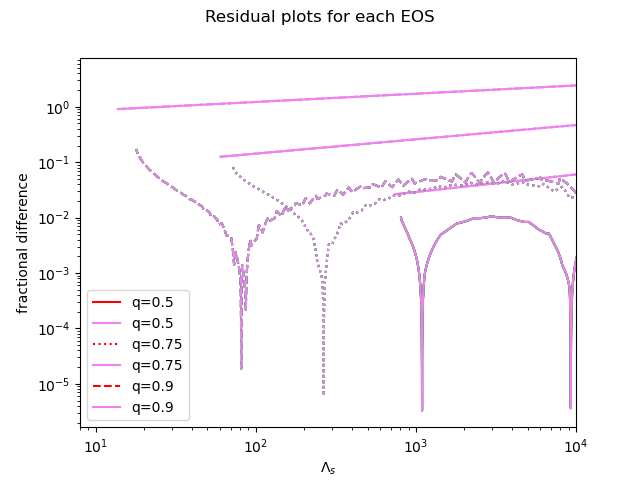
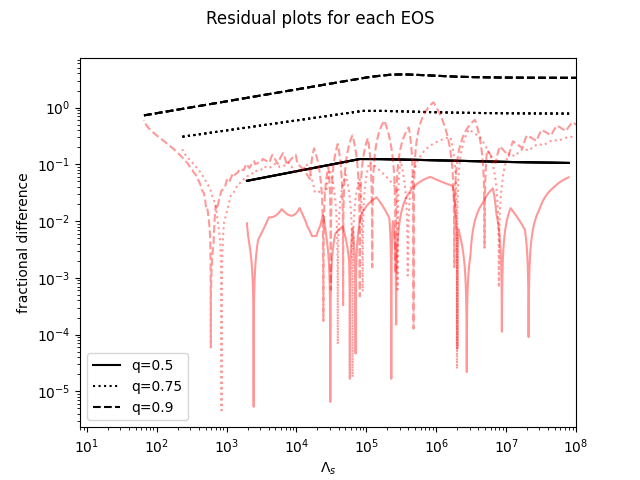
plots work

diff --git a/plotter.py b/plotter.py
@@ -50,30 +50,35 @@ class Plotter:
             self.colors = ['red', 'blue', 'lime', 'violet', 'orange']
 
     def plot_main_on_ax(self, ax):
+        used_labels = []
         for i, q in enumerate(self.qs):
             dictionary = self.qs_dict[str(q)]
             truth = dictionary['truth']
 
-            label = None
-
             for j, name in enumerate(self.eos_names):
                 eos = dictionary[name]
                 color = self.colors[j % len(self.colors)]
-                if i == 0:
+                label = None
+                if name not in used_labels:
                     label = name
+                    used_labels.append(label)
                 eos.plot(ax=ax, label=label, color=color, alpha=0.4)
 
             for j, name in enumerate(self.fit_names):
                 fit = dictionary[name]
-                linestyle = self.linestyles[j % len(self.linestyles)]
-                if i == 0:
-                    label=name
-                fit.plot(ax=ax, label=label, linestyle=linestyle, color='black', alpha=0.4)
+                label = None
+                if name not in used_labels:
+                    label = name
+                    used_labels.append(label)
+                fit.plot(ax=ax, label=label, color='black', alpha=0.4)
 
-            if i == 0:
-                label=truth.name
+            label = None
 
-            truth.plot(ax=ax, label=label, alpha=1)
+            if truth.name not in used_labels:
+                label = truth.name
+                used_labels.append(label)
+
+            truth.plot(ax=ax, label=label, color='black', alpha=1)
 
 
         ax.set_ylim((self.ax_min, self.ax_max))
@@ -88,7 +93,7 @@ class Plotter:
 
             linestyle = self.linestyles[i % len(self.linestyles)]
 
-            for j, name in enumerate(self.eos_names):
+            for j, name in enumerate(self.eos_names + self.fit_names):
                 color = self.colors[j % len(self.colors)]
 
                 x = dictionary[name].lambda_s
@@ -96,23 +101,15 @@ class Plotter:
 
                 label = None
 
-                if j == 0:
+                if j == (len(self.eos_names) + len(self.fit_names) - 1):
                     label = 'q=' + str(q)
 
-                ax.plot(x, y, label=label, linestyle=linestyle, color=color)
+                if name in self.eos_names:
+                    ax.plot(x, y, linestyle=linestyle, color=color, alpha=0.4)
+                elif name in self.fit_names:
+                    ax.plot(x, y, label=label, linestyle=linestyle, color='black')
 
-            for j, name in enumerate(self.fit_names):
-                linestyle = self.linestyles[j % len(self.linestyles)]
 
-                x = dictionary[name].lambda_s
-                y = dictionary[name + '_residual']
-
-                label = None
-
-                if j == 0:
-                    label = 'q=' + str(q)
-
-                ax.plot(x, y, label=label, linestyle=linestyle, color=color)
 
         ax.set_xlim((self.ax_min, self.ax_max))
 

diff --git a/main.py b/main.py
@@ -3,11 +3,11 @@ from plotter import Plotter
 
 eos_names = ['alf2cr', 'alf4cr', 'bsk20cr', 'bsk21cr', 'bsr2cr', 'dd2ycr', 'ddhdcr', 'ddq2acr', 'gm1bcr', 'h4cr',
          'hqc18cr', 'hqc19cr', 'mpa1cr', 'nl3cr', 'nl3ycr', 'rscr', 'sk255cr', 'ski2cr', 'skopcr', 'sly230acr',
-         'slycr', 'tm1cr'][:4]
+         'slycr', 'tm1cr'][:1]
 qs = [0.5, 0.75, 0.9]
 
 ax_min = 8
-ax_max = 1e4
+ax_max = 1e8
 
 plotter = Plotter(qs=qs, eos_names=eos_names, Truth=YagiYunes, fits=[CommonRadius], ax_lims=(ax_min, ax_max))
 
